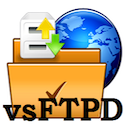
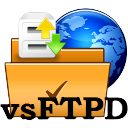
:tada: Release of add-on FTP 4.1.0

diff --git a/ftp/CHANGELOG.md b/ftp/CHANGELOG.md
@@ -1,12 +1,19 @@
 ## What’s changed
 
-## 🐛 Bug fixes
+## 🧰 Maintenance
 
-- Fix incorrect file timestamps through FTP server @jant90 (#42)
+- Apply updated repository structure & CI workflow @frenck (#53)
+
+## 📚 Documentation
+
+- Make add-on icons transparent @LiJu09 (#46)
 
 ## ⬆ Dependency updates
 
-- ⬆ Bump actions/stale from v3.0.16 to v3.0.17 @dependabot (#38)
-- ⬆ Bump actions/stale from v3.0.17 to v3.0.18 @dependabot (#40)
-- ⬆ Bump release-drafter/release-drafter from v5.14.0 to v5.15.0 @dependabot (#41)
-- ⬆  Upgrades add-on base image to v9.1.6 @frenck (#44)
+- ⬆ Bump ludeeus/action-shellcheck from 1.0.0 to 1.1.0 @dependabot (#45)
+- ⬆ Bump docker/build-push-action from v2.3.0 to v2.4.0 @dependabot (#47)
+- ⬆ Bump docker/setup-buildx-action from v1.1.1 to v1.1.2 @dependabot (#48)
+- ⬆ Bump docker/setup-qemu-action from v1.0.1 to v1.0.2 @dependabot (#49)
+- ⬆ Bump actions/cache from v2.1.4 to v2.1.5 @dependabot (#50)
+- ⬆ Bump brpaz/hadolint-action from v1.3.1 to v1.4.0 @dependabot (#51)
+- Upgrades add-on base image to v9.2.0 @frenck (#52)

diff --git a/README.md b/README.md
@@ -790,10 +790,10 @@ SOFTWARE.
 [example-armhf-shield]: https://img.shields.io/badge/armhf-yes-green.svg
 [example-armv7-shield]: https://img.shields.io/badge/armv7-yes-green.svg
 [example-i386-shield]: https://img.shields.io/badge/i386-yes-green.svg
-[addon-ftp]: https://github.com/hassio-addons/addon-ftp/tree/v4.0.2
-[addon-doc-ftp]: https://github.com/hassio-addons/addon-ftp/blob/v4.0.2/README.md
+[addon-ftp]: https://github.com/hassio-addons/addon-ftp/tree/v4.1.0
+[addon-doc-ftp]: https://github.com/hassio-addons/addon-ftp/blob/v4.1.0/README.md
 [ftp-issue]: https://github.com/hassio-addons/addon-ftp/issues
-[ftp-version-shield]: https://img.shields.io/badge/version-v4.0.2-blue.svg
+[ftp-version-shield]: https://img.shields.io/badge/version-v4.1.0-blue.svg
 [ftp-aarch64-shield]: https://img.shields.io/badge/aarch64-yes-green.svg
 [ftp-amd64-shield]: https://img.shields.io/badge/amd64-yes-green.svg
 [ftp-armhf-shield]: https://img.shields.io/badge/armhf-yes-green.svg

diff --git a/ftp/README.md b/ftp/README.md
@@ -34,5 +34,5 @@ access to your Home Assistant configuration via FTP.
 [patreon-shield]: https://frenck.dev/wp-content/uploads/2019/12/patreon.png
 [patreon]: https://www.patreon.com/frenck
 [project-stage-shield]: https://img.shields.io/badge/project%20stage-production%20ready-brightgreen.svg
-[release-shield]: https://img.shields.io/badge/version-v4.0.2-blue.svg
-[release]: https://github.com/hassio-addons/addon-ftp/tree/v4.0.2
+[release-shield]: https://img.shields.io/badge/version-v4.1.0-blue.svg
+[release]: https://github.com/hassio-addons/addon-ftp/tree/v4.1.0
